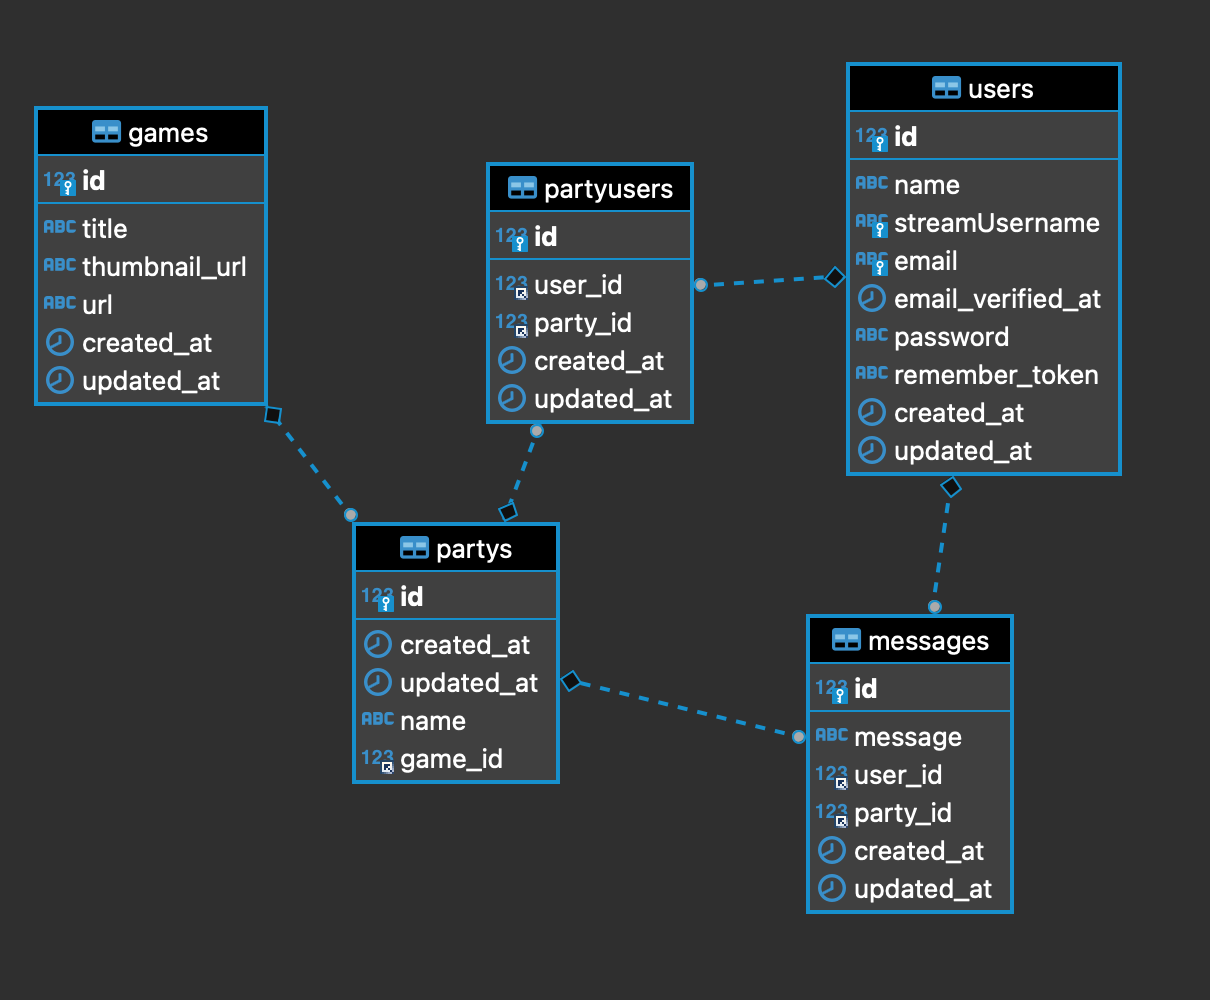
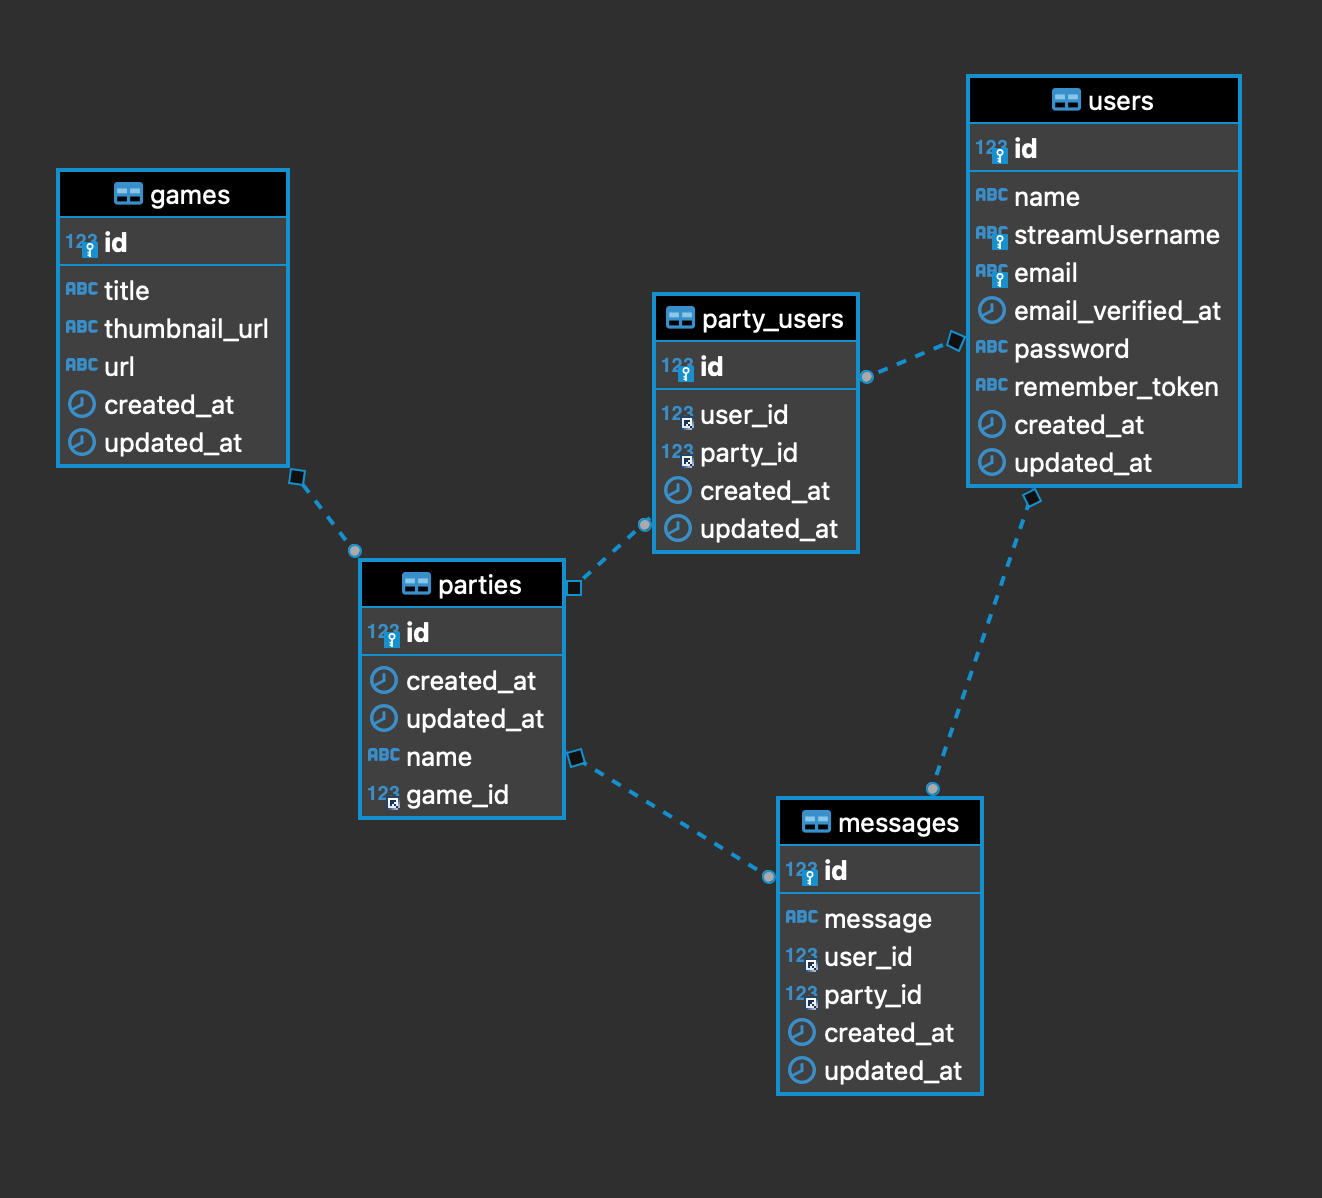
schema name changed to party_users instead of partyusers

diff --git a/database/migrations/2021_07_08_152348_create_partyuser.php b/database/migrations/2021_07_08_152348_create_partyuser.php
@@ -13,7 +13,7 @@ class CreatePartyuser extends Migration
      */
     public function up()
     {
-        Schema::create('partyusers', function (Blueprint $table) {
+        Schema::create('party_users', function (Blueprint $table) {
             $table->id();
             $table->foreignId('user_id')->references('id')->on('users');
             $table->foreignId('party_id')->references('id')->on('parties');
@@ -28,6 +28,6 @@ class CreatePartyuser extends Migration
      */
     public function down()
     {
-        Schema::dropIfExists('partyusers');
+        Schema::dropIfExists('party_users');
     }
 }
